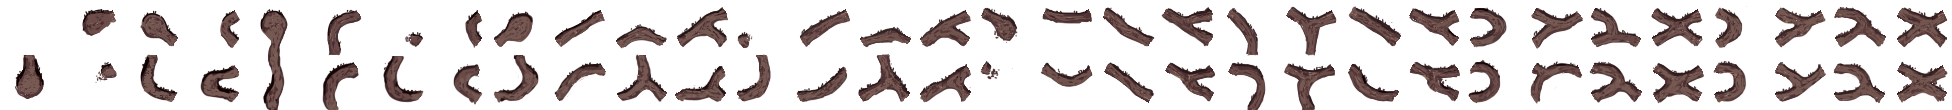
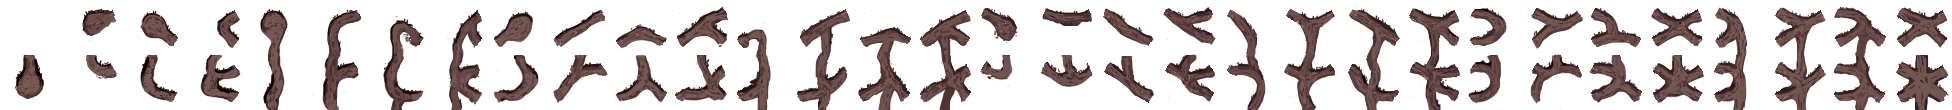
Distant paths now properly set their alpha.

diff --git a/core/src/com/majalis/world/GameWorldNode.java b/core/src/com/majalis/world/GameWorldNode.java
@@ -182,9 +182,7 @@ public class GameWorldNode extends Group implements Comparable<GameWorldNode> {
 				Path path1 = node.pathMap.get(algoNode);
 				Path path2 = algoNode.pathMap.get(node);
 				algoNode = node;
-				//path1.getParent().addActor(path1);
 				path1.setColor(Color.GREEN);
-				//path2.getParent().addActor(path2);
 				path2.setColor(Color.GREEN);
 			}
 		}
@@ -275,7 +273,8 @@ public class GameWorldNode extends Group implements Comparable<GameWorldNode> {
 		}
 	}	
 	
-	private void setPathAlpha(Path path, GameWorldNode otherNode) {	path.setColor(
+	public void setPathAlpha(Path path, GameWorldNode otherNode) {	
+		path.setColor(
 		isHidden() ? getAlpha(Color.WHITE) :
 		otherNode.isHidden() ? otherNode.getAlpha(Color.WHITE) :
 		this.visitInfo.visibility <= otherNode.visitInfo.visibility || otherNode.isHidden() ? getAlpha(Color.WHITE) : otherNode.getAlpha(Color.WHITE)); 

diff --git a/core/src/com/majalis/screens/WorldMapScreen.java b/core/src/com/majalis/screens/WorldMapScreen.java
@@ -1357,6 +1357,7 @@ public class WorldMapScreen extends AbstractScreen {
 		}
 		
 		for (final GameWorldNode actor : world.getNodes()) {
+			actor.setColor(Color.WHITE);
 			worldGroup.addActor(actor);
 			actor.addListener(new ClickListener(){
 				@Override
